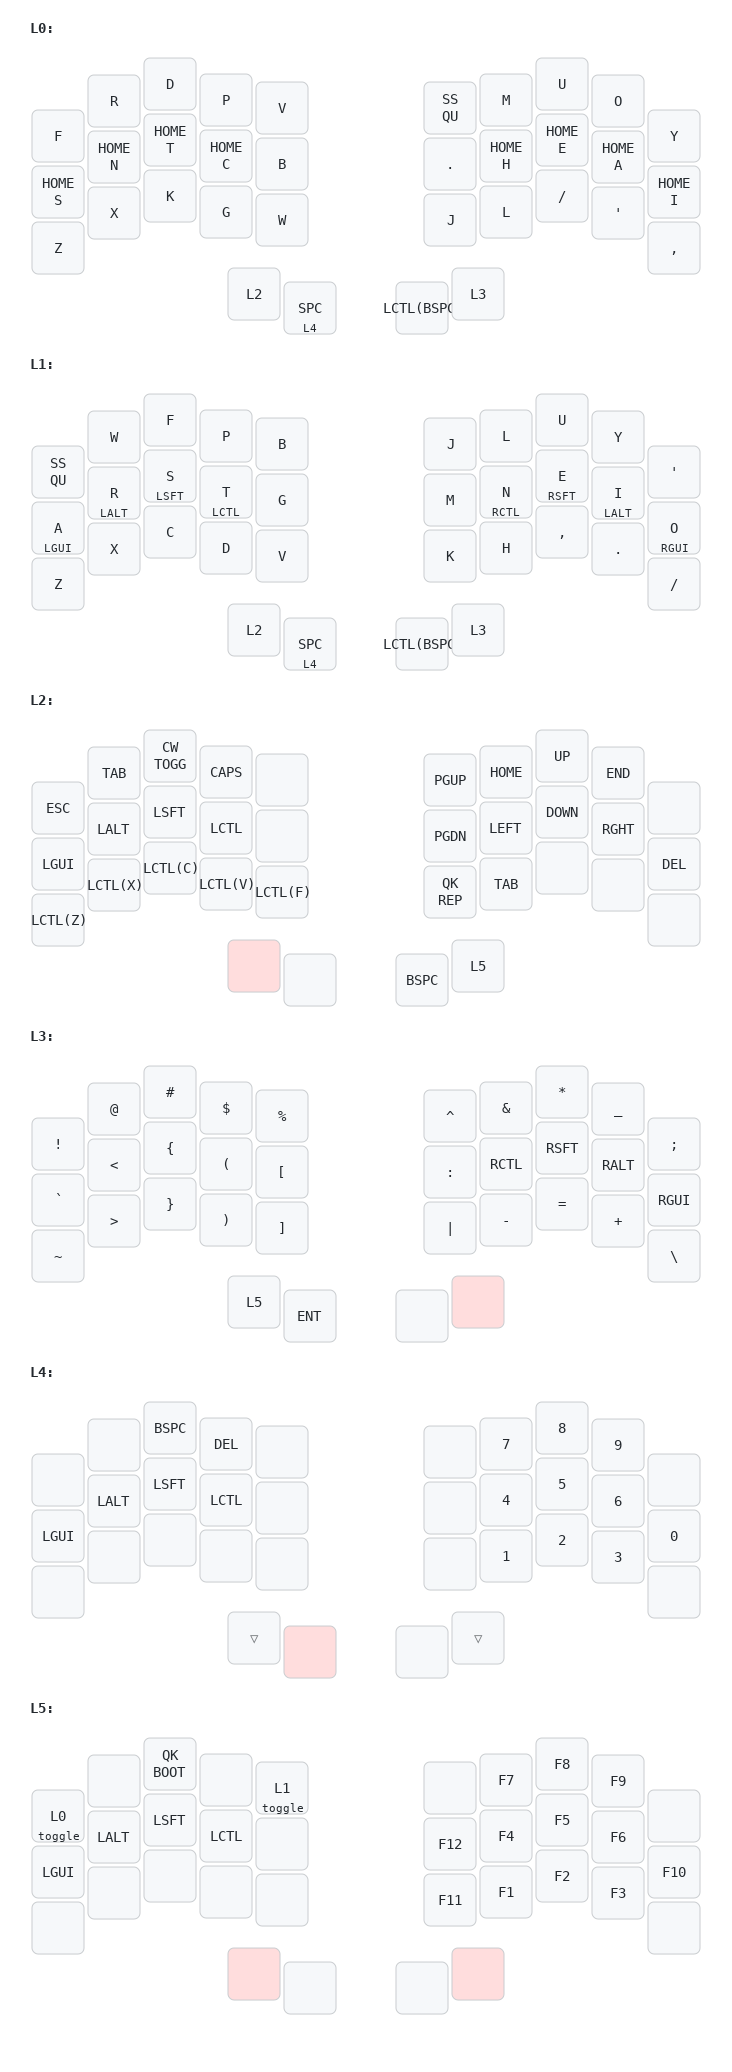
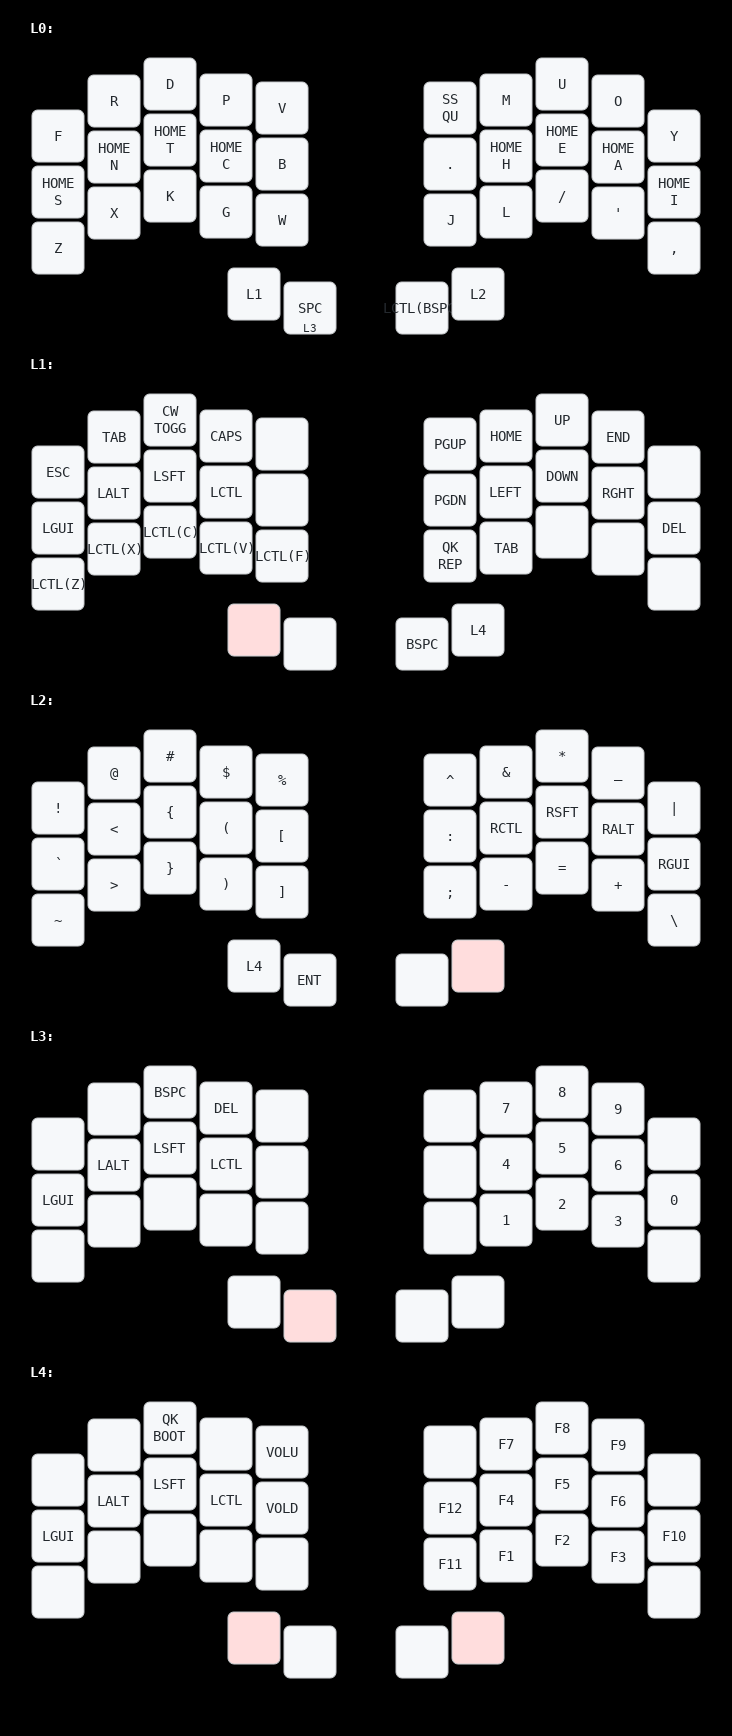
removed top backspace, increased tapping term, g bkspc chord, volume keys on fn layer, semicolon under colon

diff --git a/keymap.c b/keymap.c
@@ -155,40 +155,33 @@ const uint16_t PROGMEM keymaps[][MATRIX_ROWS][MATRIX_COLS] = {
 		KC_F		, KC_R		  , KC_D		, KC_P		  , KC_V	  	 , 			SS_QU  		 , KC_M		   , KC_U   	 , KC_O  	   , KC_Y		 , 
 		HOME_S      , HOME_N      , HOME_T      , HOME_C      , KC_B	  	 , 			KC_DOT 		 , HOME_H      , HOME_E      , HOME_A      , HOME_I      , 
 		KC_Z		, KC_X		  , KC_K		, KC_G		  , KC_W	  	 , 			KC_J   		 , KC_L		   , KC_SLSH	 , KC_QUOT	   , KC_COMM	 , 
-			   								   	  MO(2)		  , LT(4, KC_SPC), 			LCTL(KC_BSPC), MO(3))	   ,
-	
-	//Base (Colemak-DH)
-	[1] = LAYOUT_split_3x5_2(
-		SS_QU		, KC_W		  , KC_F		, KC_P		  , KC_B	  	 , 			KC_J   		 , KC_L		   , KC_U   	 , KC_Y  	   , KC_QUOT	 , 
-		LGUI_T(KC_A), LALT_T(KC_R), LSFT_T(KC_S), LCTL_T(KC_T), KC_G	  	 , 			KC_M   		 , RCTL_T(KC_N), RSFT_T(KC_E), LALT_T(KC_I), RGUI_T(KC_O), 
-		KC_Z		, KC_X		  , KC_C		, KC_D		  , KC_V	  	 , 			KC_K   		 , KC_H		   , KC_COMM	 , KC_DOT	   , KC_SLSH	 , 
-			   								   	  MO(2)		  , LT(4, KC_SPC), 			LCTL(KC_BSPC), MO(3))	   ,
+			   								   	  MO(1)		  , LT(3, KC_SPC), 			LCTL(KC_BSPC), MO(2))	   ,
 
 	//Nav/Ext
-	[2] = LAYOUT_split_3x5_2(
+	[1] = LAYOUT_split_3x5_2(
 		KC_ESC    	, KC_TAB	  , CW_TOGG     , KC_CAPS     , KC_NO     	 , 			KC_PGUP		 , KC_HOME	   , KC_UP  	 , KC_END 	   , KC_NO 	   	 , 
 		KC_LGUI   	, KC_LALT  	  , KC_LSFT     , KC_LCTL     , KC_NO     	 , 			KC_PGDN		 , KC_LEFT	   , KC_DOWN	 , KC_RGHT	   , KC_DEL	   	 ,
 		LCTL(KC_Z)	, LCTL(KC_X)  , LCTL(KC_C)  , LCTL(KC_V)  , LCTL(KC_F)	 , 			QK_REP		 , KC_TAB 	   , KC_NO  	 , KC_NO  	   , KC_NO 	   	 , 
-												  KC_TRNS	  , KC_NO	 	 , 			KC_BSPC		 , MO(5))	   ,
+												  KC_TRNS	  , KC_NO	 	 , 			KC_BSPC		 , MO(4))	   ,
 	
 	//Symbol
-	[3] = LAYOUT_split_3x5_2(
-		KC_EXLM		, KC_AT		  , KC_HASH		, KC_DLR 	  , KC_PERC	  	 ,			KC_CIRC		 , KC_AMPR	   , KC_ASTR	 , KC_UNDS	   , KC_SCLN	 , 
+	[2] = LAYOUT_split_3x5_2(
+		KC_EXLM		, KC_AT		  , KC_HASH		, KC_DLR 	  , KC_PERC	  	 ,			KC_CIRC		 , KC_AMPR	   , KC_ASTR	 , KC_UNDS	   , KC_PIPE	 , 
 		KC_GRV 		, KC_LT		  , KC_LCBR		, KC_LPRN	  , KC_LBRC	  	 ,			KC_COLN		 , KC_RCTL	   , KC_RSFT	 , KC_RALT	   , KC_RGUI	 , 
-		KC_TILD		, KC_GT		  , KC_RCBR		, KC_RPRN	  , KC_RBRC	  	 , 		 	KC_PIPE		 , KC_MINS	   , KC_EQL 	 , KC_PLUS	   , KC_BSLS	 , 
-												  MO(5)		  , KC_ENT		 , 		 	KC_NO		 , KC_TRNS)	   ,
+		KC_TILD		, KC_GT		  , KC_RCBR		, KC_RPRN	  , KC_RBRC	  	 , 		 	KC_SCLN		 , KC_MINS	   , KC_EQL 	 , KC_PLUS	   , KC_BSLS	 , 
+												  MO(4)		  , KC_ENT		 , 		 	KC_NO		 , KC_TRNS)	   ,
 	
 	//Numpad
-	[4] = LAYOUT_split_3x5_2(
+	[3] = LAYOUT_split_3x5_2(
 		KC_NO  		, KC_NO  	  , KC_BSPC		, KC_DEL 	  , KC_NO	  	 , 			KC_NO  		 , KC_7		   , KC_8		 , KC_9		   , KC_NO	   	 , 
 		KC_LGUI		, KC_LALT	  , KC_LSFT		, KC_LCTL	  , KC_NO	  	 , 			KC_NO  		 , KC_4		   , KC_5		 , KC_6		   , KC_0 	   	 , 
 		KC_NO  		, KC_NO  	  , KC_NO  		, KC_NO  	  , KC_NO	  	 ,			KC_NO  		 , KC_1		   , KC_2		 , KC_3		   , KC_NO	   	 ,
-								 				  KC_TRNS	  , KC_TRNS	  	 , 			KC_NO  		 , KC_TRNS)	   ,
+								 				  KC_NO       , KC_TRNS	  	 , 			KC_NO  		 , KC_NO)	   ,
 	
 	//Function
-	[5] = LAYOUT_split_3x5_2(
-		TO(0)  		, KC_NO  	  , QK_BOOT		, KC_NO  	  , TO(1)	  	 , 			KC_NO  		 , KC_F7	   , KC_F8	   	 , KC_F9	   , KC_NO 	   	 , 
-		KC_LGUI		, KC_LALT	  , KC_LSFT		, KC_LCTL	  , KC_NO	  	 , 			KC_F12 		 , KC_F4  	   , KC_F5	   	 , KC_F6	   , KC_F10	   	 , 
+	[4] = LAYOUT_split_3x5_2(
+		KC_NO  		, KC_NO  	  , QK_BOOT		, KC_NO  	  , KC_VOLU	  	 , 			KC_NO  		 , KC_F7	   , KC_F8	   	 , KC_F9	   , KC_NO 	   	 , 
+		KC_LGUI		, KC_LALT	  , KC_LSFT		, KC_LCTL	  , KC_VOLD	  	 , 			KC_F12 		 , KC_F4  	   , KC_F5	   	 , KC_F6	   , KC_F10	   	 , 
 		KC_NO  		, KC_NO  	  , KC_NO  		, KC_NO  	  , KC_NO	  	 ,			KC_F11 		 , KC_F1	   , KC_F2	   	 , KC_F3	   , KC_NO 	   	 , 
 							   	   				  KC_TRNS	  , KC_NO		 , 			KC_NO		 , KC_TRNS)	   ,
 };
@@ -208,7 +201,7 @@ const uint16_t PROGMEM combo8[] = {KC_V, KC_B, COMBO_END}; // V+B -> Left Brace 
 
 
 // Right Hand
-const uint16_t PROGMEM combo9[]  = {KC_U, KC_O, COMBO_END}; // U+O -> Backspace Top
+const uint16_t PROGMEM combo9[]  = {KC_G, LCTL(KC_BSPC), COMBO_END}; // Ctrl+Bkspc Key -> Backspace
 const uint16_t PROGMEM combo10[] = {KC_SLSH, KC_QUOT, COMBO_END}; // /+' -> Enter
 const uint16_t PROGMEM combo11[] = {KC_B, KC_DOT, COMBO_END}; // B+. -> Caps Word
 
@@ -241,7 +234,7 @@ combo_t key_combos[COMBO_COUNT] = {
 
 
     // Right Hand
-    COMBO(combo9, KC_BSPC), // U+O -> Backspace Top
+    COMBO(combo9, KC_BSPC), // Ctrl+Bkspc Key -> Backspace
 	COMBO(combo10, KC_ENT), // /+' -> Enter
 	COMBO(combo11, CW_TOGG), // B+. -> Caps Word
 

diff --git a/config.h b/config.h
@@ -1,6 +1,6 @@
 #pragma once
 // Pick good defaults for enabling homerow modifiers
-#define TAPPING_TERM 200
+#define TAPPING_TERM 220
 #define PERMISSIVE_HOLD
 #define QUICK_TAP_TERM 0
 
